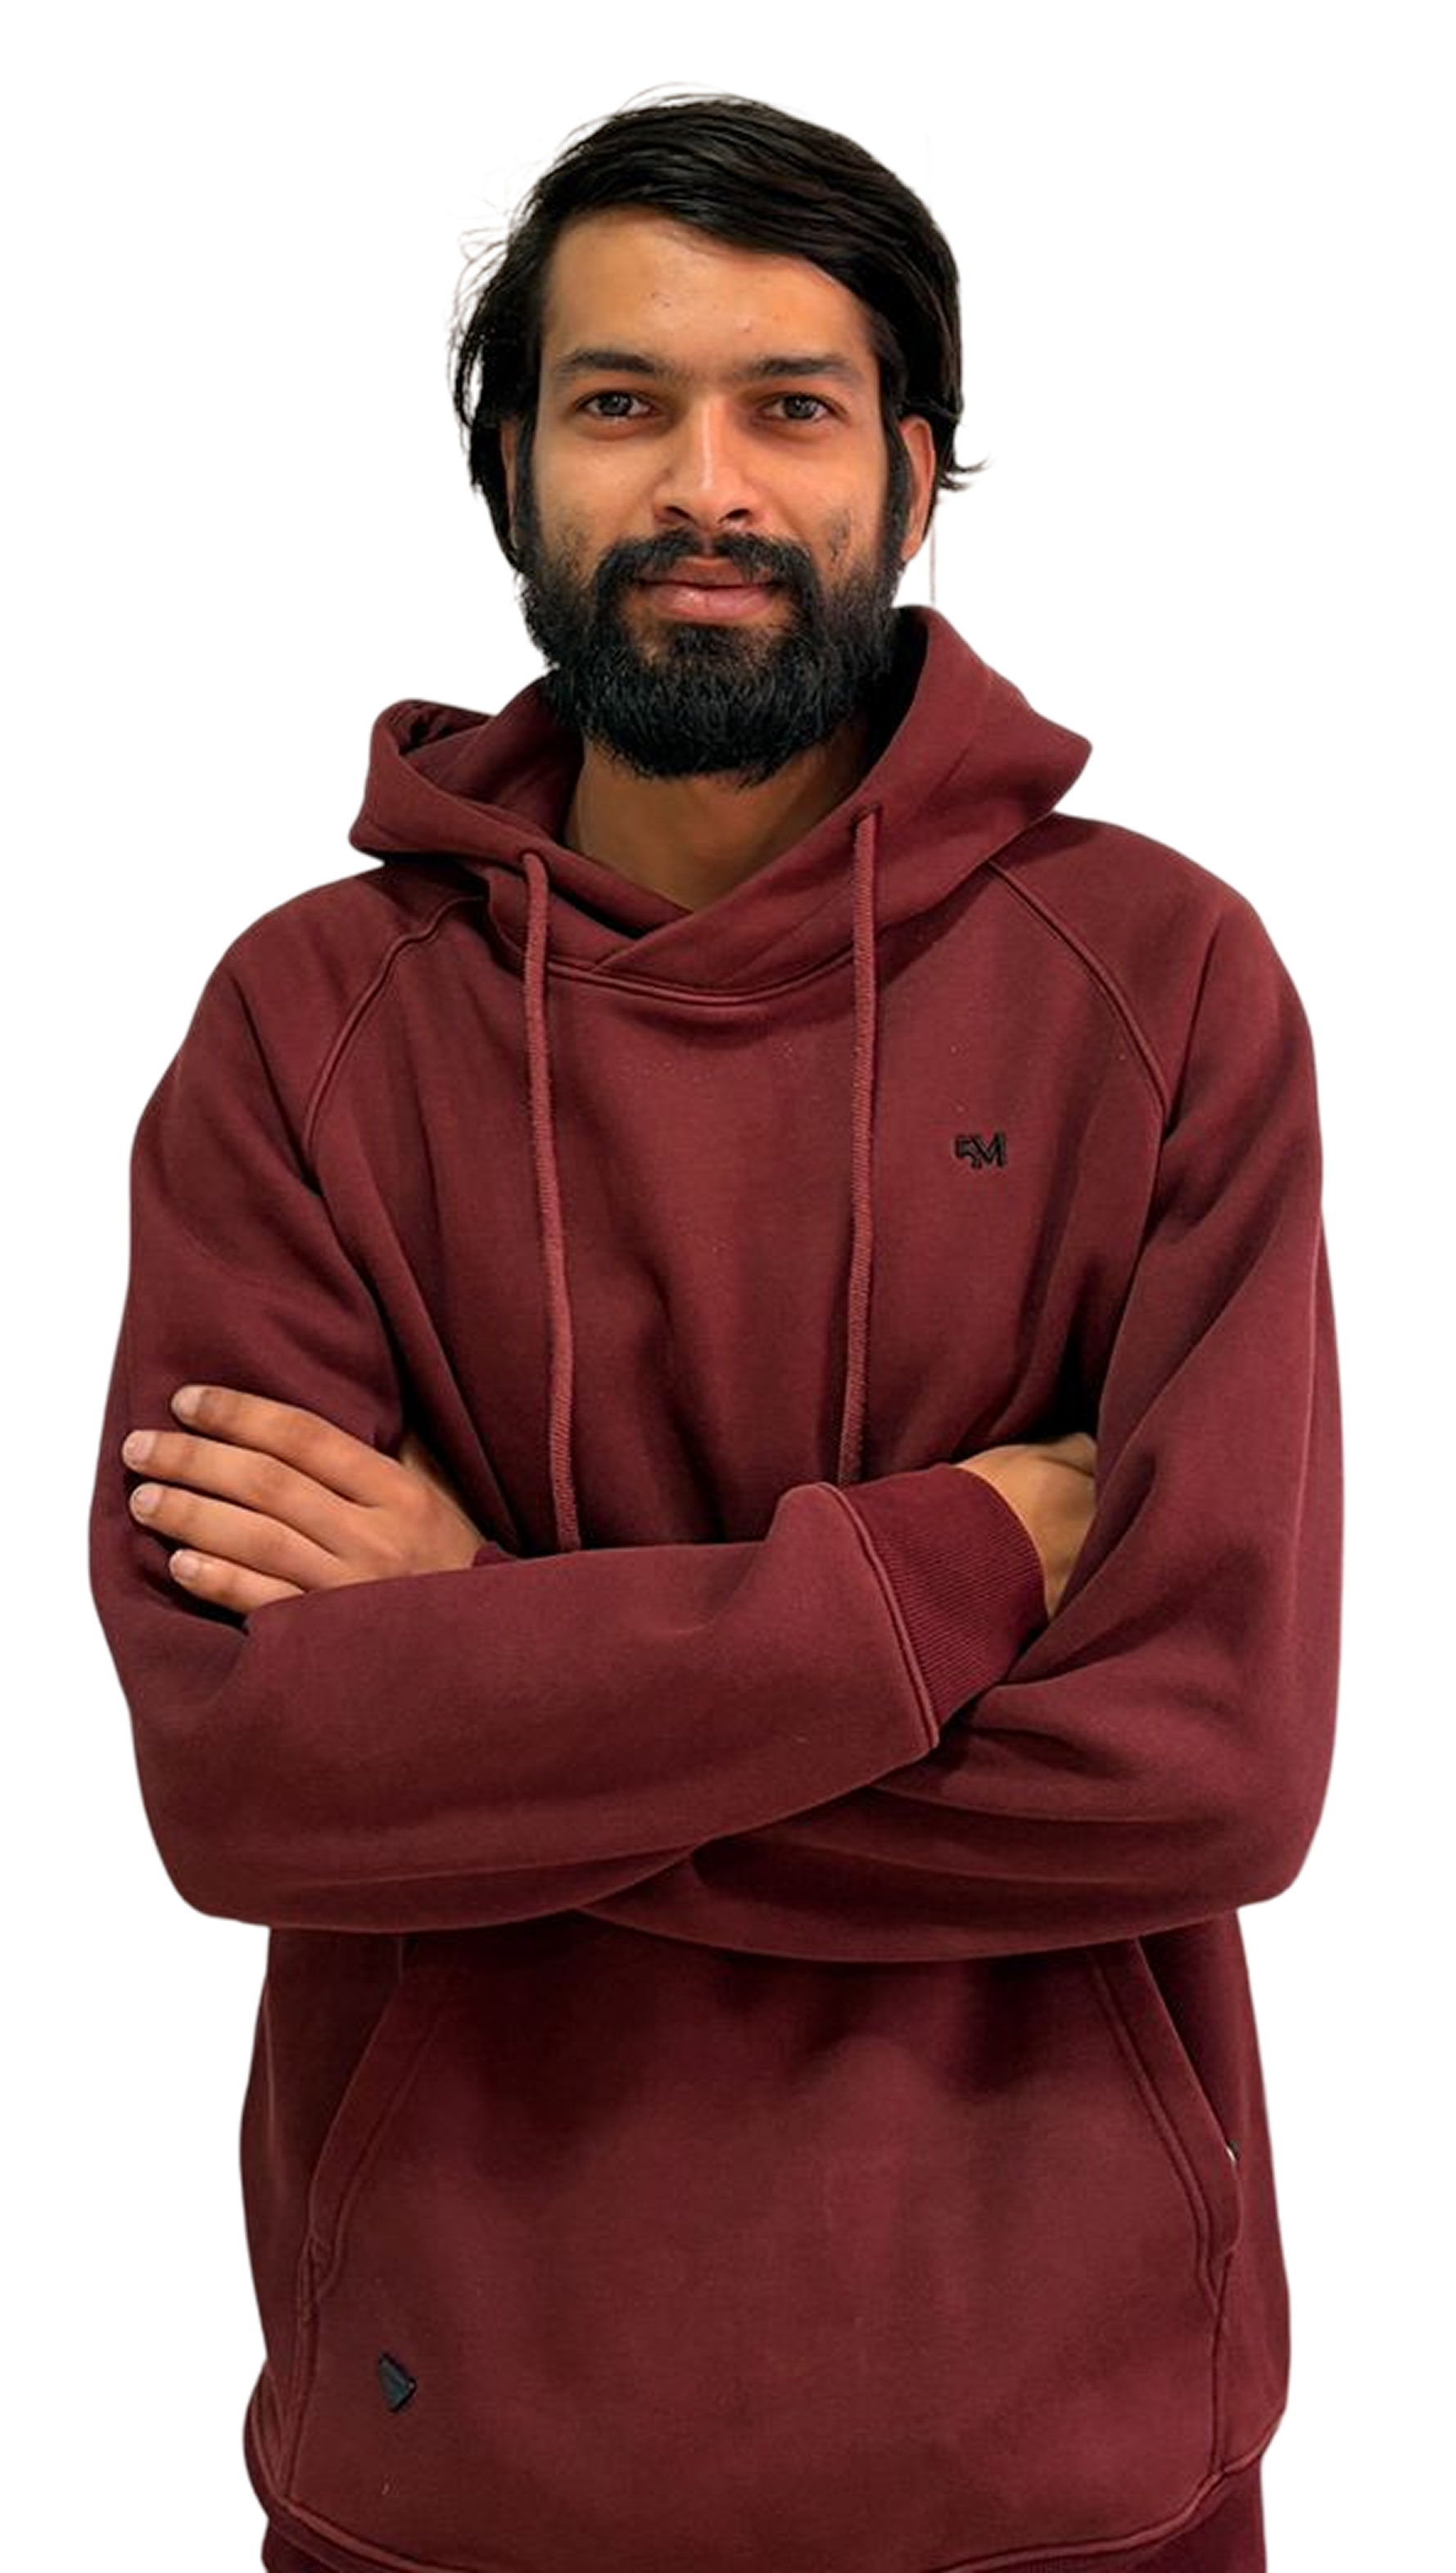
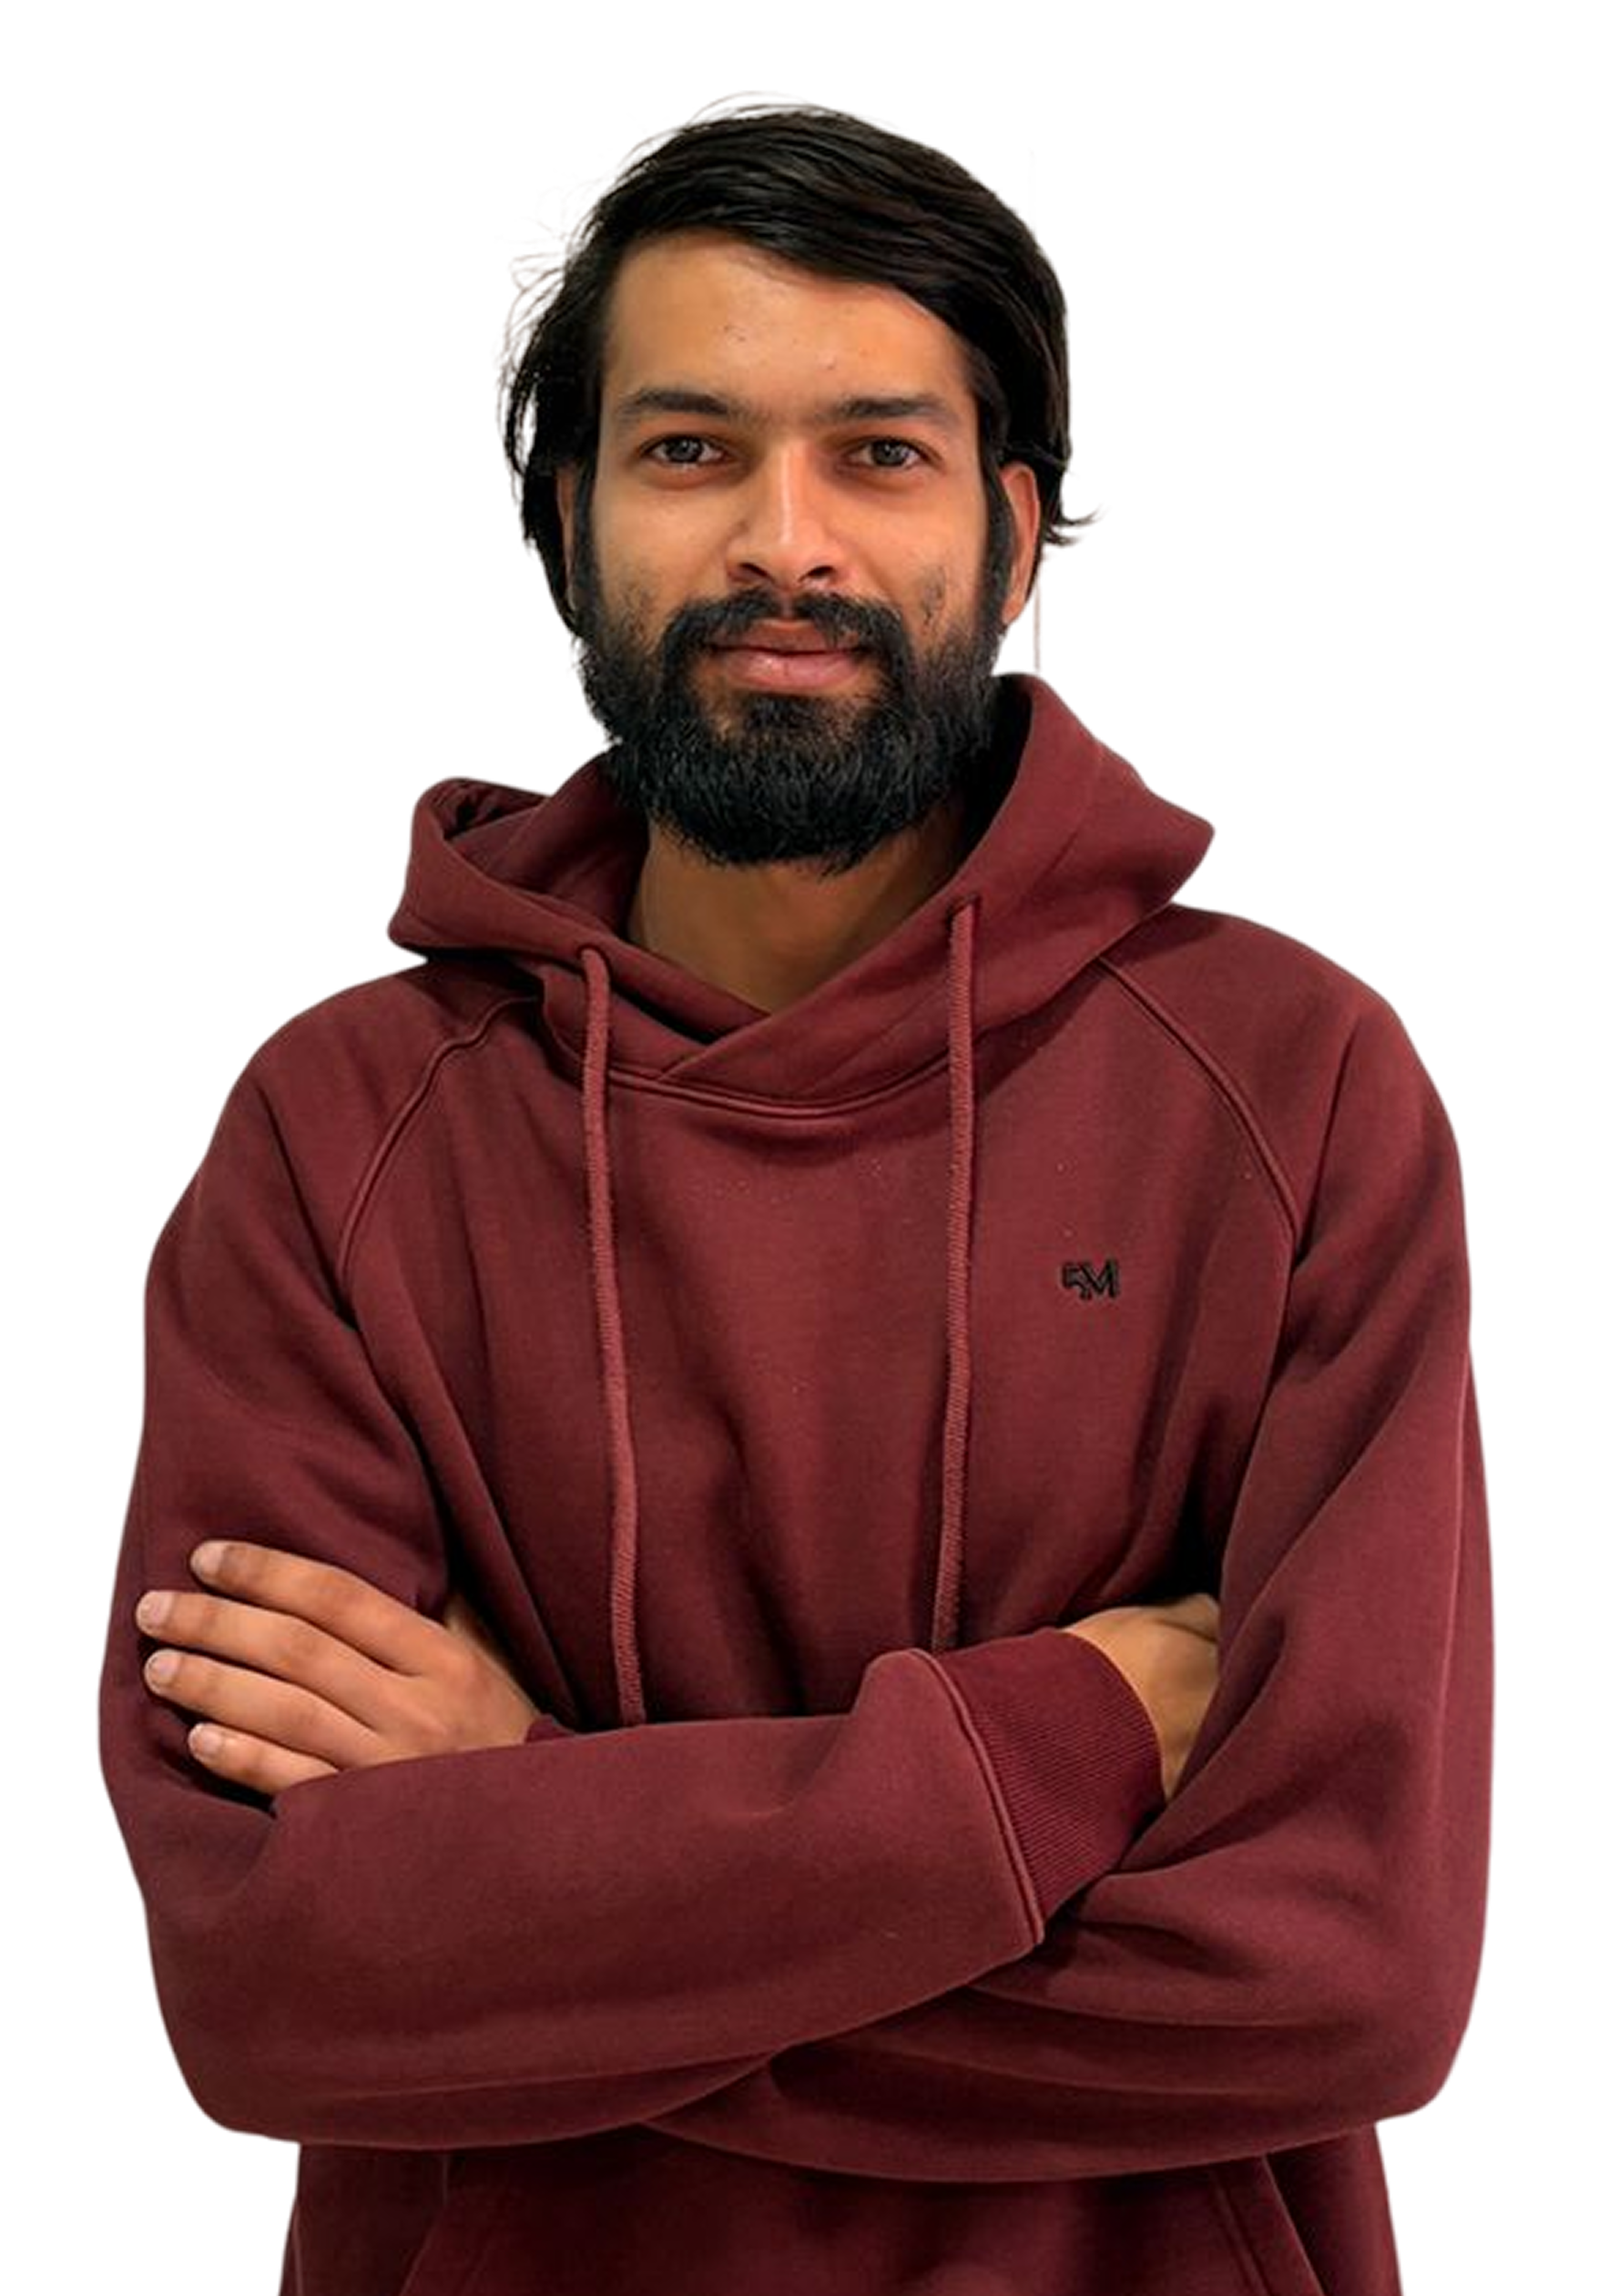
image changed

diff --git a/components/SourceColumn.tsx b/components/SourceColumn.tsx
@@ -104,7 +104,7 @@ export function SourceColumn({ source, transactions }: Props) {
     <section aria-label={`${brand.label} sales`} className="flex flex-col w-full relative">
 
       {/* ── Header: logo + name + count ── */}
-      <div className="flex items-center justify-between mb-1.5 min-h-[70px] relative z-0">
+      <div className="flex items-center justify-between mb-1.5 min-h-[50px] lg:min-h-[70px] relative z-0">
         <div className="flex items-center gap-2.5 ">
           <Image
             src={brand.logo}
@@ -124,7 +124,7 @@ export function SourceColumn({ source, transactions }: Props) {
       </div>
 
       {/* ── Total ── */}
-      <div className="flex items-baseline gap-2 mb-4">
+      <div className="flex items-baseline gap-2 mb-8 lg:mb-4">
         <span className="font-bold italic text-[#1f1f30] text-[24px] 2xl:text-[25px] leading-none">
           Total:
         </span>
@@ -140,12 +140,19 @@ export function SourceColumn({ source, transactions }: Props) {
         {topSeller ? (
           <>
             <div
-              className={`relative ${brand.heroBg} ${brand.heroText} h-[150px] p-5 pr-[155px] overflow-visible rounded-t-xl`}
+              className={`relative ${brand.heroBg} ${brand.heroText} h-[160px] lg:h-[150px] p-5 pr-[155px] overflow-visible rounded-t-xl`}
             >
+
+
               {/* Staff photo */}
-              <div className="absolute right-0 2xl:flex justify-end items-end bottom-0  w-[150px] h-[190px] 2xl:h-[240px]  overflow-hidden! pointer-events-none z-20">
+              <div className="absolute right-0 flex justify-end items-end bottom-0  w-[150px] h-[190px] 2xl:h-[240px]  overflow-visible! pointer-events-none z-20">
                 {imagePath ? (
                   <>
+                    <img
+                      src={"/logo/cover2.png"}
+                      alt={topSeller.admin_name ?? "Top seller"}
+                      className=" object-contain h-[90px] absolute right-45 translate-x-6 z-20  object-top 2xl:object-bottom!"
+                    />
                     <img
                       src={imagePath}
                       alt={topSeller.admin_name ?? "Top seller"}
@@ -190,9 +197,9 @@ export function SourceColumn({ source, transactions }: Props) {
               </div>
 
               {/* Total */}
-              <div className="mt-1.5 2xl:mt-2.5">
+              <div className="mt-1.5 2xl:mt-2.5 relative z-50">
                 <div className="text-[11px] opacity-70 mb-0.5">Total</div>
-                <div className="text-sm 2xl:text-[28px] font-bold lg:text-nowrap leading-none tracking-tight">
+                <div className="text-sm 2xl:text-[25px] font-bold lg:text-nowrap leading-none tracking-tight">
                   Rs. {formatAmount(topSeller.total)}
                 </div>
               </div>

diff --git a/components/FrameScreen.tsx b/components/FrameScreen.tsx
@@ -19,7 +19,7 @@ export const FrameScreen = ({ transactions }: FrameScreenProps) => {
 
   return (
     <div className="w-full  max-w-[1440px] px-6">
-      <div className="grid lg:grid-cols-3 gap-6 2xl:gap-[70px] w-full items-start">
+      <div className="grid md:grid-cols-3 gap-6 2xl:gap-[70px] w-full items-start">
         <SourceColumn source="babal" transactions={grouped.babal} />
         <SourceColumn source="nest" transactions={grouped.nest} />
         <SourceColumn source="sms" transactions={grouped.sms} />